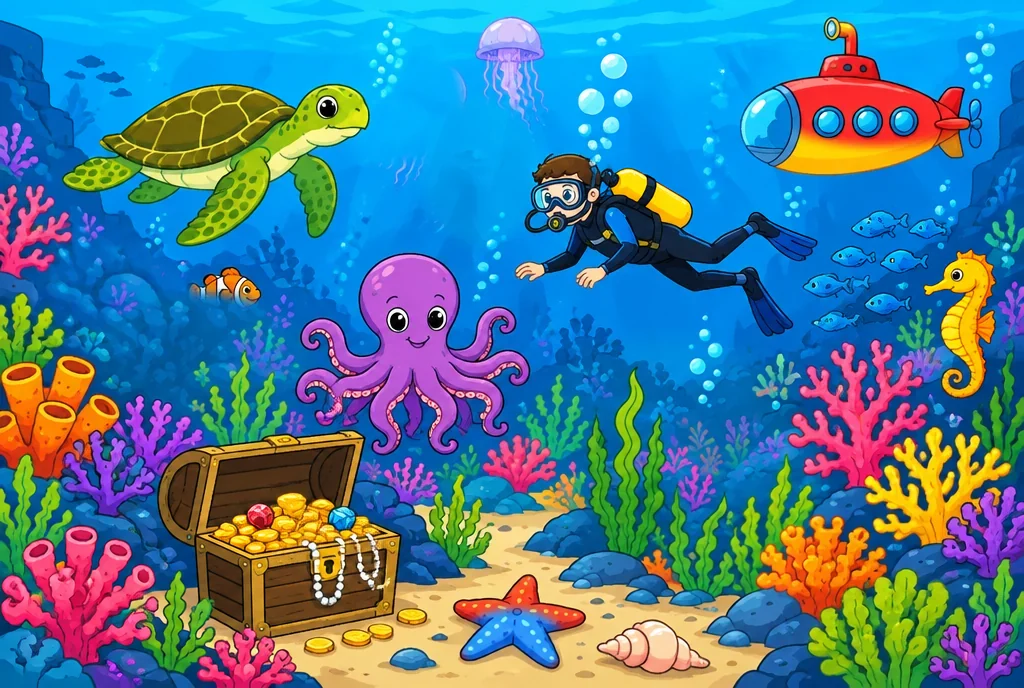
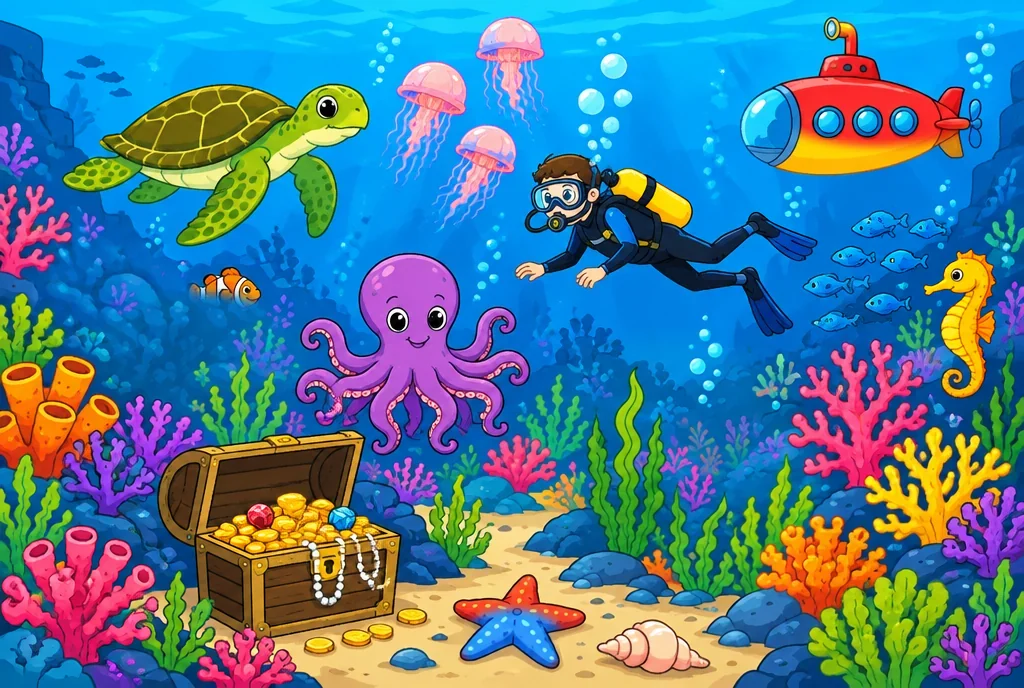
틀린그림: 바닷속 해파리 3마리 전부 재채색(일부만 지우던 것 제거), 판정 영역 확대
Claude-Session: https://claude.ai/code/session_016w6Xgt7pnuiPSU1tW2hror

Changed region(s): [[0.375, 0.0305, 0.5312, 0.3358], [0.3125, 0.1221, 0.3438, 0.1526]]

diff --git a/lib/games/spotLevels.ts b/lib/games/spotLevels.ts
@@ -14,7 +14,7 @@ export const SPOT_LEVELS: SpotLevel[] = [
   { id: "beach", name: "여름 해변", diffs: [{ id: "d1", x: 0.3154, y: 0.1105, r: 0.0738, kind: "hue" }, { id: "d2", x: 0.4912, y: 0.4404, r: 0.035, kind: "hue" }, { id: "d3", x: 0.3164, y: 0.7718, r: 0.1013, kind: "hue" }, { id: "d4", x: 0.6855, y: 0.6977, r: 0.0622, kind: "hue" }, { id: "d5", x: 0.1514, y: 0.3866, r: 0.1413, kind: "hue" }] },
   { id: "bedroom", name: "아이 방", diffs: [{ id: "d1", x: 0.0469, y: 0.4404, r: 0.097, kind: "hue" }, { id: "d2", x: 0.6279, y: 0.2616, r: 0.0601, kind: "hue" }, { id: "d3", x: 0.832, y: 0.5116, r: 0.0591, kind: "hue" }, { id: "d4", x: 0.2539, y: 0.4709, r: 0.097, kind: "hue" }, { id: "d5", x: 0.7471, y: 0.9055, r: 0.0591, kind: "hue" }] },
   { id: "farm", name: "농장", diffs: [{ id: "d1", x: 0.3359, y: 0.6323, r: 0.116, kind: "hue" }, { id: "d2", x: 0.7471, y: 0.2471, r: 0.0896, kind: "hue" }, { id: "d3", x: 0.8506, y: 0.8663, r: 0.16, kind: "hue" }, { id: "d4", x: 0.917, y: 0.093, r: 0.0749, kind: "hue" }, { id: "d5", x: 0.582, y: 0.3488, r: 0.1044, kind: "hue" }] },
-  { id: "ocean", name: "바닷속 탐험", diffs: [{ id: "d1", x: 0.4404, y: 0.2209, r: 0.1065, kind: "hue" }, { id: "d2", x: 0.1621, y: 0.4753, r: 0.135, kind: "hue" }, { id: "d3", x: 0.6279, y: 0.7544, r: 0.16, kind: "hue" }, { id: "d4", x: 0.8555, y: 0.1265, r: 0.1171, kind: "hue" }, { id: "d5", x: 0.5, y: 0.923, r: 0.0643, kind: "hue" }] },
+  { id: "ocean", name: "바닷속 탐험", diffs: [{ id: "d1", x: 0.459, y: 0.1744, r: 0.1287, kind: "hue" }, { id: "d2", x: 0.1621, y: 0.4753, r: 0.135, kind: "hue" }, { id: "d3", x: 0.6279, y: 0.7544, r: 0.16, kind: "hue" }, { id: "d4", x: 0.8555, y: 0.1265, r: 0.1171, kind: "hue" }, { id: "d5", x: 0.5, y: 0.923, r: 0.0643, kind: "hue" }] },
   { id: "cafe", name: "동네 카페", diffs: [{ id: "d1", x: 0.7314, y: 0.6526, r: 0.096, kind: "hue" }, { id: "d2", x: 0.5811, y: 0.2006, r: 0.1434, kind: "hue" }, { id: "d3", x: 0.1582, y: 0.7965, r: 0.1255, kind: "hue" }, { id: "d4", x: 0.2139, y: 0.8401, r: 0.0654, kind: "hue" }, { id: "d5", x: 0.4072, y: 0.4971, r: 0.0496, kind: "hue" }] },
   { id: "winter", name: "겨울 마을", diffs: [{ id: "d1", x: 0.208, y: 0.8445, r: 0.1034, kind: "hue" }, { id: "d2", x: 0.5371, y: 0.8212, r: 0.077, kind: "hue" }, { id: "d3", x: 0.4775, y: 0.7369, r: 0.1413, kind: "hue" }, { id: "d4", x: 0.4678, y: 0.048, r: 0.0401, kind: "hue" }, { id: "d5", x: 0.0996, y: 0.0843, r: 0.035, kind: "hue" }] },
 ];

diff --git a/CLAUDE.md b/CLAUDE.md
@@ -198,3 +198,4 @@
   - 오퍼 목업(`/game`, `/game/[id]`, `/cpq`, `/survey`): 22차의 ComingSoon 을 걷어내고 `_replica`(마이비 복제)와 다른 **우리 톤 레이아웃**으로 새로 작성 — 라이트 배경, 그라디언트 히어로(게임 오렌지·초간단 블루·설문 바이올렛) + 자체 생성 일러스트, 카드 리스트, 필터 칩, 고정 CTA. 참여 버튼은 `usePreviewTap()` 토스트("제휴사 연동 후 참여할 수 있어요"), 헤더 `PreviewChip`. 데이터는 기존 시드(`lib/benefit·cpq·survey`)를 그대로 쓰되 아이콘을 **자체 생성 목업**(`public/mock/`: 게임 아이콘 8·카테고리 9·히어로 2, 이미지 MCP 19장 ≈ 4.75크레딧)으로 교체 → 앱 본체의 `/myb/*` 참조 0 유지(쇼핑 복제만 잔존). 표시 보상 = missionPoint+bonusPoint(캡처 totalPoint 는 누적값이라 과대).
   - 혜택 탭: "곧 열려요" 3칸 → 게임하고 적립(가로 카드 6) · 설문 보상(Hot 3) · 초간단 적립(3) 섹션 + 전체보기, 하단 "연동 전 미리보기" 안내. `/api/game·survey·cpq` 병렬 fetch.
   - 쇼핑 적립(`/shop`, `/shop/[id]`): 대표님 "기존(마이비) 그대로 쓰고 있네, 조금 바꿔야지" → 좌표 복제 버전을 버리고 우리 톤으로 재작성. 메인: 오늘의 추천(크림 카드) → 적립 예정(흰 카드, PCoin) → 즐겨찾기(별 듀오톤, 원형 로고) → 첫 구매 2배 띠(오렌지 그라디언트, 2X 칩) → 적립률 높은 곳 2열(HOT 링) → 전체 쇼핑몰(추천/적립률/이름 정렬) → 유의사항 아코디언 → 방문 적립 안내. 상세: 로고+최대 적립 카드 → 이렇게 적립돼요(번호) → 적립 대상 표 → 꼭 읽어보세요(연한 빨강 카드) → 다른 쇼핑몰 → 고정 CTA. `MerchantCard` 테두리 없는 그림자 카드 + NEW/HOT 칩, `Rate` PCoin. 마이비 아이콘(ic_bpoint·like·welcome_2x·promotion 팝업) 참조 제거, 유의사항·상세 문구를 우리 말로 재작성(마이비→캐치캐치리워드, B포인트→포인트). 남은 `/myb/*` 참조: 제휴사 로고(`/myb/res`)와 `lib/benefit/service.ts` EARN_MENU 아이콘 4개(혜택 탭에서 미사용).
+  - 틀린그림 추가 원칙(대표님 재지적): **무리 지어 있는 물체는 일부만 바꾸지 않는다.** 바닷속 해파리 3마리 중 2마리만 지워 "반만"으로 보이던 것을 셋 다 보라→분홍으로 재채색(hue 212±42, 영역을 셋을 덮는 타원 (470,120,88,122) 로 확대). 제거는 단일 물체 + 단색/그라디언트 배경일 때만.
